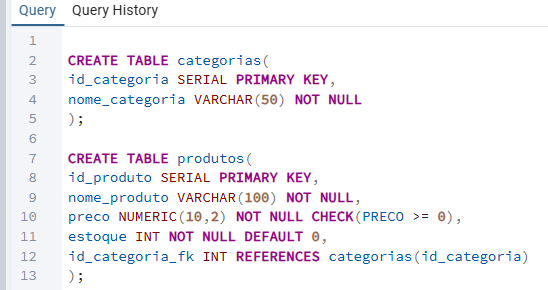
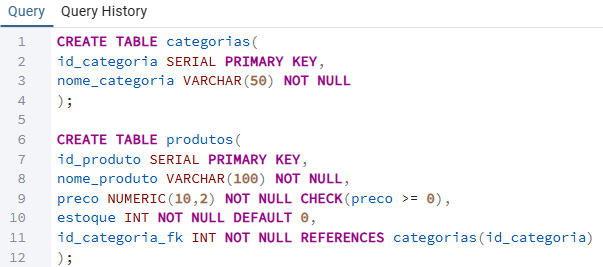
feat(aula-01):atualiza conteudo da aula-01

Changed region(s): [[0.0, 0.0, 1.0, 1.0], [0.0931, 0.3596, 0.1551, 0.4494]]

diff --git a/01-fundamentos/aula-01/README.md b/01-fundamentos/aula-01/README.md
@@ -107,8 +107,8 @@ Chave Estrangeira (Foreign Key - FK): Cria o relacionamento entre tabelas. Apont
 CREATE TABLE pedidos (
     id_pedido SERIAL PRIMARY KEY,    -- Chave Primária (PK) do pedido
     data_pedido DATE NOT NULL,
-    valor DECIMAL(10,2),
-    id_cliente_fk INT,               -- Coluna para guardar o ID do cliente (FK)
+    valor NUMERIC(10,2),              -- Pode ser também o DECIMAL - SÃO O MESMO TIPO.
+    id_cliente_fk INT NOT NULL,               -- Coluna para guardar o ID do cliente (FK)
     
     -- Criando a regra da Chave Estrangeira (FK)
     CONSTRAINT fk_pedidos_clientes 
@@ -129,7 +129,7 @@ CREATE TABLE pedidos (
 | **DML** | Data Manipulation Language | Manipula os dados dentro das tabelas | `INSERT`, `UPDATE`, `DELETE` |
 | **DQL** | Data Query Language | Consulta os dados | `SELECT` |
 | **DCL** | Data Control Language | Controla permissões e acesso | `GRANT`, `REVOKE` |
-| **DTL** | Transaction Control Language | Controla transações (operações tudo-ou-nada) | `BEGIN`, `COMMIT`, `ROLLBACK` |
+| **TCL / DTL** | Transaction Control Language | Controla transações (operações tudo-ou-nada) | `BEGIN`, `COMMIT`, `ROLLBACK` |
 
 ## 📦 Entendendo as Famílias do SQL (A Metáfora do Estoque) - Meu Resumo 
 
@@ -174,11 +174,11 @@ nome_categoria VARCHAR(50) NOT NULL
 CREATE TABLE produtos(
 id_produto SERIAL PRIMARY KEY,
 nome_produto VARCHAR(100) NOT NULL,
-preco NUMERIC(10,2) NOT NULL CHECK(PRECO >= 0),
+preco NUMERIC(10,2) NOT NULL CHECK(preco >= 0),
 estoque INT NOT NULL DEFAULT 0,
-id_categoria-fk INT,   -- Aqui eu errei na digitação -- corrigido na imagem 
+id_categoria-fk INT NOT NULL,   -- Aqui errei na digitação -- corrigido na imagem  -- ❌ hífen no nome
 
-CONSTRAINT fk_produtos_categoria(id_categoria_fk) REFERENCES categorias(id_categoria)  -- aqui eu esqueci do FOREIGN KEY  -- Corrigido na imagem
+CONSTRAINT fk_produtos_categoria(id_categoria_fk) REFERENCES categorias(id_categoria)  -- Aqui esqueci do FOREIGN KEY  -- Corrigido na imagem ❌ faltou FOREIGN KEY
 );
 
 ```
@@ -189,7 +189,7 @@ Abaixo está o registro da execução das tabelas `categorias` e `produtos` dent
 
 ![Execução do script de tabelas](./imagens/print_categoria_produtos.png)
 
-![Execução do script de tabelas](./imagens/print_categoria_prod_em%20linha.png)
+![Execução do script de tabelas](./imagens/print_categoria_prod_em%20linha.png.png)
 
 ---
 

diff --git a/01-fundamentos/README.md b/01-fundamentos/README.md
@@ -22,7 +22,6 @@ Este diretório reúne a base conceitual e prática da minha jornada em SQL com 
 
 ## 📚 Aulas Publicadas
 
-## 📚 Aulas Publicadas
 
 | Aula | Tema | O que foi praticado | Link |
 |------|------|---------------------|------|
